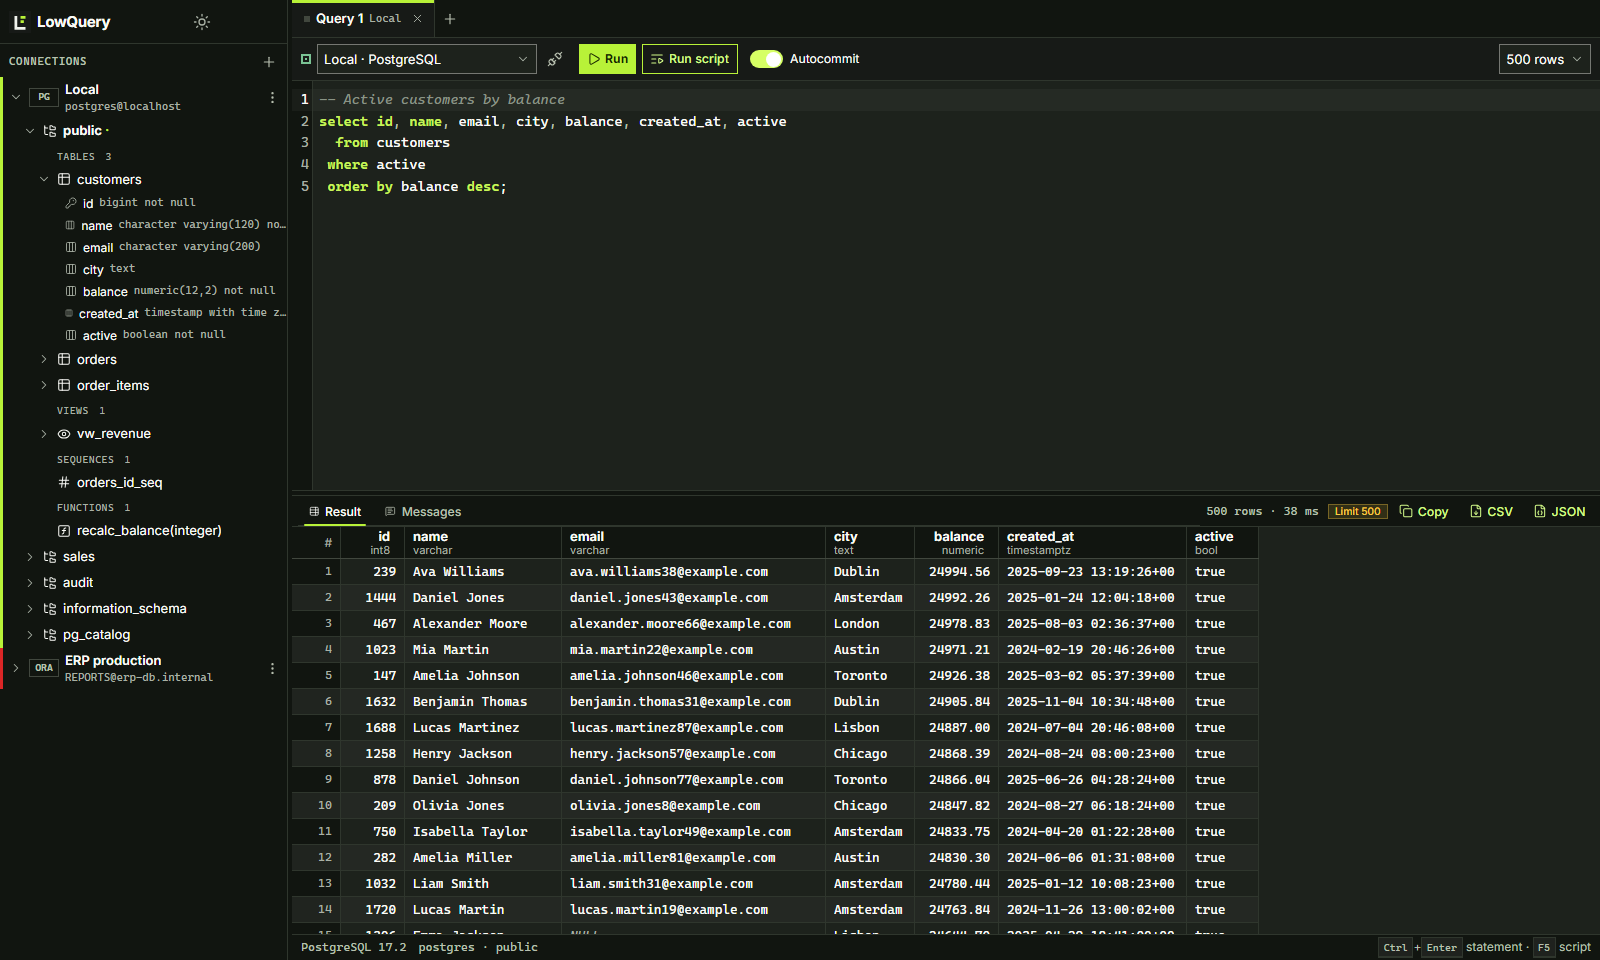
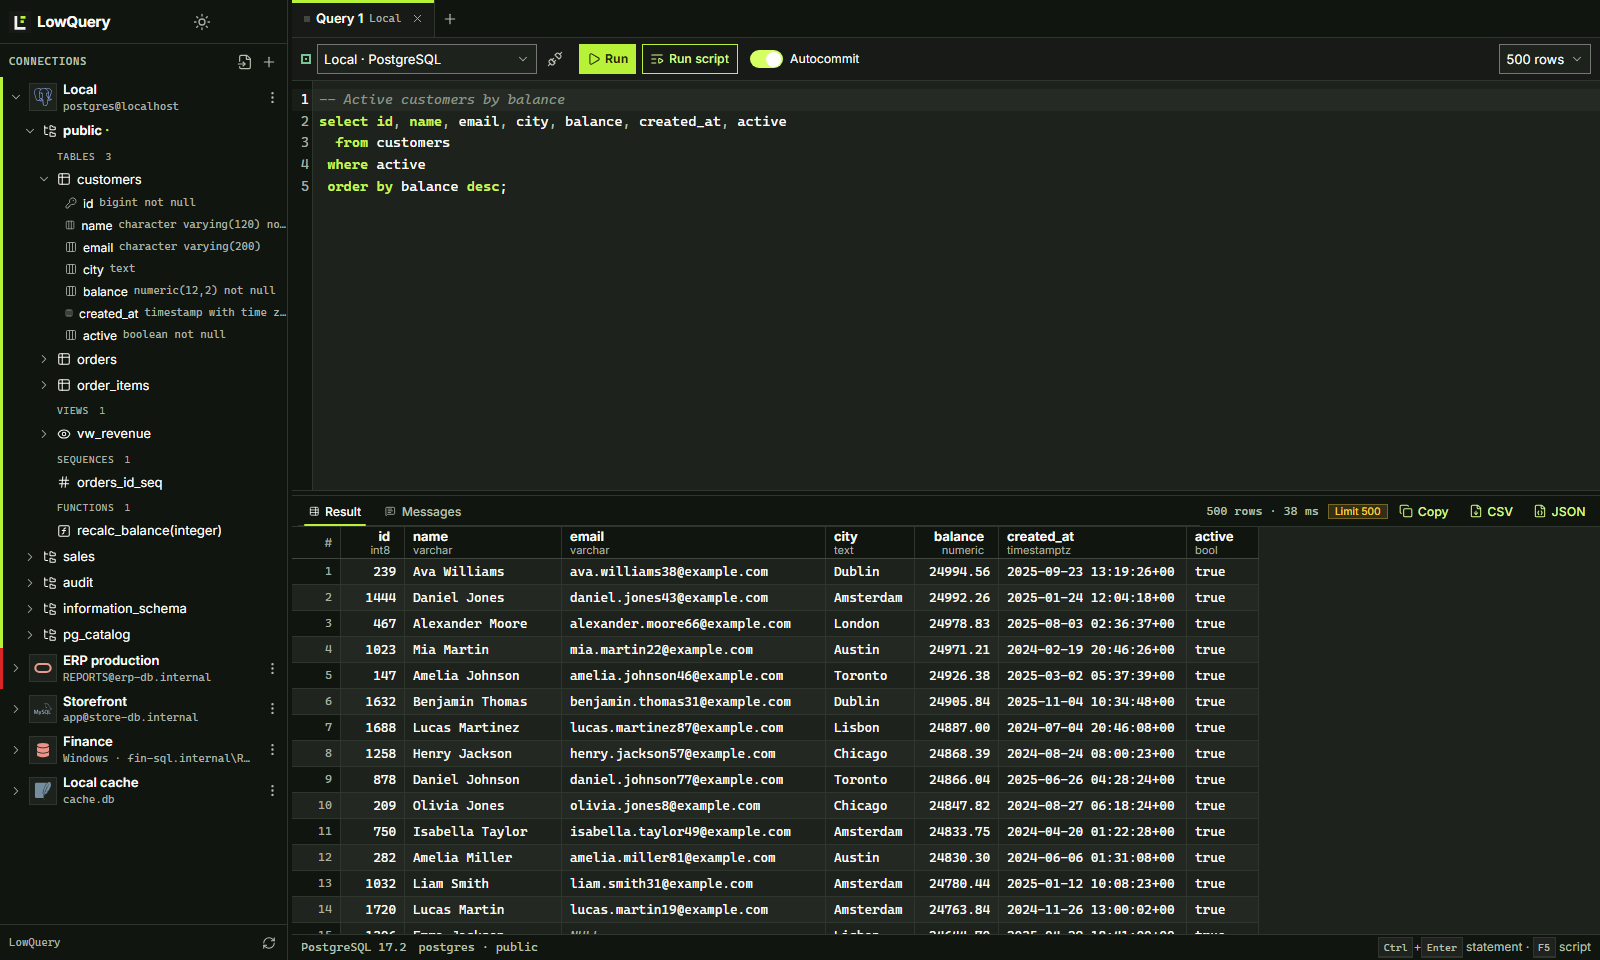
test(sqlserver): report why a cancelled session could not recover

Changed region(s): [[0.0, 0.6562, 0.1562, 0.8438], [0.0, 0.0625, 0.125, 0.125], [0.0, 0.9688, 0.0312, 1.0]]

diff --git a/src-tauri/src/drivers/sqlserver.rs b/src-tauri/src/drivers/sqlserver.rs
@@ -251,21 +251,24 @@ impl MsSession {
             None => {
                 // The batch future was dropped; the attention tells the server
                 // to stop and drains the rest of the response.
-                let acked = matches!(
-                    tokio::time::timeout(CANCEL_TIMEOUT, client.cancel_query()).await,
-                    Ok(Ok(()))
-                );
-                if acked {
-                    Err(AppError::new(
+                let acked = tokio::time::timeout(CANCEL_TIMEOUT, client.cancel_query()).await;
+                match acked {
+                    Ok(Ok(())) => Err(AppError::new(
                         ErrorKind::Cancelled,
                         "The statement was cancelled.",
-                    ))
-                } else {
-                    self.broken.store(true, Ordering::SeqCst);
-                    Err(AppError::new(
-                        ErrorKind::Cancelled,
-                        "The statement was cancelled, but the connection could not be recovered. Reconnect to continue.",
-                    ))
+                    )),
+                    other => {
+                        self.broken.store(true, Ordering::SeqCst);
+                        let mut err = AppError::new(
+                            ErrorKind::Cancelled,
+                            "The statement was cancelled, but the connection could not be recovered. Reconnect to continue.",
+                        );
+                        err.detail = Some(match other {
+                            Ok(Err(e)) => e.to_string(),
+                            _ => "The server did not acknowledge the cancel in time.".into(),
+                        });
+                        Err(err)
+                    }
                 }
             }
         };
@@ -284,6 +287,15 @@ impl MsSession {
                     let err = self.fail(e, None);
                     if outcome.is_ok() {
                         return Err(err);
+                    }
+                    // Keep the original error, but say why the session broke.
+                    if let Err(original) = &outcome {
+                        if self.broken.load(Ordering::SeqCst) && original.detail.is_none() {
+                            return Err(AppError {
+                                detail: Some(err.message),
+                                ..original.clone()
+                            });
+                        }
                     }
                     None
                 }
@@ -1480,6 +1492,7 @@ mod tests {
         tokio::time::sleep(Duration::from_secs(1)).await;
         s.cancel().await.unwrap();
         let err = running.await.unwrap().unwrap_err();
+        eprintln!("cancel result: {err:?}");
         assert_eq!(err.kind, ErrorKind::Cancelled);
         let r = run(&s, "SELECT 2", 0).await.unwrap();
         assert_eq!(r.rows[0][0].as_deref(), Some("2"));

diff --git a/README.md b/README.md
@@ -98,16 +98,15 @@ gh attestation verify LowQuery-<version>-linux-x64.AppImage --repo LowBloat/LowQ
 
 ## How it works
 
-| Topic | PostgreSQL | Oracle |
-| --- | --- | --- |
-| Driver | [`tokio-postgres`](https://crates.io/crates/tokio-postgres), extended protocol | [`oracledb`](https://github.com/oracle/rust-oracledb), Oracle's thin driver in pure Rust |
-| Row limit | Portal executed with `max_rows` | `prefetch_rows` and fetch size sized from the limit |
-| Values | Binary format decoded per type into server-style text | Per-type formatting for NUMBER, DATE, TIMESTAMP (with time zone), RAW/BLOB, CLOB, JSON, VECTOR and intervals |
-| Server messages | `NOTICE`/`WARNING` | `DBMS_OUTPUT` |
-| Cancel | Server cancel protocol | Not available in the driver yet; scripts stop before the next statement |
-| Network configuration | Host, port and database in the profile | `tnsnames.ora` found through `TNS_ADMIN`, `ORACLE_HOME`, registered Oracle homes or Instant Client on `PATH`, or a folder you pick; `IFILE`, `NAMES.DEFAULT_DOMAIN` and Latin-1 files are supported |
-| Encryption | `disable`, `prefer`, `require`, `verify-full` | TLS (TCPS) through a descriptor or Easy Connect string |
-| Scripts | `;`, `$$` and `$tag$` bodies, nested comments, `E''` strings | `;` for SQL, `/` for PL/SQL, `q'[...]'` strings |
+| Database | Row limit | Values | Server messages | Cancel | Scripts |
+| --- | --- | --- | --- | --- | --- |
+| PostgreSQL | Portal executed with `max_rows` | Binary format decoded per type into server-style text: exact NUMERIC, infinite dates, intervals, arrays, ranges | `NOTICE`, `WARNING` | Server cancel protocol | `;`, `$$` bodies, nested comments, `E''` strings |
+| Oracle | `prefetch_rows` and fetch size sized from the limit | NUMBER, DATE, TIMESTAMP with time zone, RAW/BLOB, CLOB, JSON, VECTOR, intervals | `DBMS_OUTPUT` | Not in the driver yet; scripts stop before the next statement | `;` for SQL, `/` for PL/SQL, `q'[...]'` strings |
+| MySQL, MariaDB | `sql_select_limit` on the server | Text protocol: exact DECIMAL, unsigned BIGINT, zero dates, binary as hex | `SHOW WARNINGS` | `KILL QUERY` from a second connection | `DELIMITER`, `#` comments, backticks, backslash escapes |
+| SQL Server, Azure SQL | `SET ROWCOUNT` for plain SELECT batches | Exact decimal, datetime2 and datetimeoffset precision, uniqueidentifier, binary as hex | Not exposed by the driver yet | TDS attention | `GO` batches, `BEGIN...END` blocks, `[brackets]` |
+| SQLite | Stops stepping at the limit | Storage class and declared type; blobs as hex | — | `sqlite3_interrupt` | Trigger bodies, `[brackets]`, backticks |
+
+**Network configuration.** PostgreSQL, MySQL, MariaDB and SQL Server use host, port and database, with `disable`, `prefer`, `require` or `verify-full` TLS. SQL Server also takes a named instance (found through SQL Server Browser) and can sign in with the Windows account running LowQuery. Oracle reads the `tnsnames.ora` found through `TNS_ADMIN`, `ORACLE_HOME`, registered Oracle homes or an Instant Client on `PATH`, or a folder you pick (`IFILE`, `NAMES.DEFAULT_DOMAIN` and Latin-1 files are supported), and accepts TCPS descriptors. SQLite opens or creates a local file.
 
 Connection profiles are stored in `connections.json` in the user configuration folder (`%APPDATA%\LowBloat\LowQuery\config` on Windows, `~/Library/Application Support/dev.LowBloat.LowQuery` on macOS, `~/.config/lowquery` on Linux). Open query tabs and their SQL are restored on the next start.
 

diff --git a/docs/ARCHITECTURE.md b/docs/ARCHITECTURE.md
@@ -32,6 +32,9 @@ LowQuery is a Tauri 2 desktop app. The interface is Svelte 5 with the [CodeAtlas
 | `drivers/postgres.rs` | PostgreSQL session on `tokio-postgres` |
 | `drivers/pg_value.rs` | Binary decoding of PostgreSQL types into server-style text |
 | `drivers/oracle.rs` | Oracle session on the official `oracledb` thin driver |
+| `drivers/mysql.rs` | MySQL and MariaDB session on `mysql_async` |
+| `drivers/sqlserver.rs` | SQL Server and Azure SQL session on `tiberius` (TDS) |
+| `drivers/sqlite.rs` | SQLite session on `rusqlite` (bundled engine) |
 | `drivers/tns.rs` | Finds and parses `tnsnames.ora` (TNS_ADMIN, ORACLE_HOME, Windows registry, clients on PATH) |
 | `drivers/integration_tests.rs` | Tests against real servers (`#[ignore]`, see CONTRIBUTING) |
 
@@ -52,10 +55,30 @@ LowQuery is a Tauri 2 desktop app. The interface is Svelte 5 with the [CodeAtlas
 - The driver cannot interrupt a running call yet; a script stops before the next statement instead.
 - TNS aliases are resolved by `tns.rs`, not by the driver: it searches the same places an Oracle client does plus clients on `PATH` and the Windows registry, reads Latin-1 files, follows `IFILE` and applies `NAMES.DEFAULT_DOMAIN`. The driver receives the full descriptor and the folder, which it still uses for `sqlnet.ora`.
 
+### MySQL and MariaDB
+
+- Statements use the text protocol, so the server formats every value; binary-charset columns are shown as hex.
+- Row-returning statements run with `sql_select_limit` set to the limit and restored afterwards.
+- Transaction state comes from the server status flags of the last OK packet.
+- Warnings are read with `SHOW WARNINGS`; cancel sends `KILL QUERY` from a short-lived second connection.
+
+### SQL Server
+
+- Each call is one batch (`GO` splits them in the interface), so `#temp` tables, `USE` and `SET` persist.
+- Plain `SELECT`/`WITH` batches run with `SET ROWCOUNT`; others stop reading at the limit.
+- Manual commit mode uses `SET IMPLICIT_TRANSACTIONS ON`, and `@@TRANCOUNT`/`XACT_STATE()` after each call drive the transaction indicator.
+- Cancel sends a TDS attention. The driver does not expose `PRINT` messages yet.
+
+### SQLite
+
+- The connection lives behind a mutex and every call runs in `spawn_blocking`; cancel uses `sqlite3_interrupt`.
+- Manual commit mode opens `BEGIN` before the first statement; the indicator follows `sqlite3_get_autocommit`.
+
 ## Interface side (`src`)
 
 | Path | Responsibility |
 | --- | --- |
+| `lib/engines/` | Engine registry (name, logo, default port, dialect) used by the picker and the sidebar |
 | `theme.ts` | LowBloat theme for CodeAtlas: palette, zero radius, no shadows |
 | `lib/api.ts` | Types and `invoke` wrappers for every command |
 | `lib/sql/split.ts` | Script splitting per dialect: strings, quoted identifiers, nested comments, dollar quotes, `q'[...]'`, PL/SQL blocks |

diff --git a/CHANGELOG.md b/CHANGELOG.md
@@ -4,6 +4,15 @@ All notable changes to LowQuery are documented here. The format follows [Keep a 
 
 ## [Unreleased]
 
+## [0.2.0] - 2026-10-19
+
+### Added
+- MySQL and MariaDB through `mysql_async`: server-side row limit with `sql_select_limit`, exact DECIMAL and unsigned values, warnings in the Messages tab, `KILL QUERY` cancel, TLS modes, and `DELIMITER` in scripts.
+- SQL Server and Azure SQL through `tiberius` (TDS): SQL logins or the Windows account, named instances through SQL Server Browser, encryption modes, `GO` batches, `SET ROWCOUNT` limit for plain SELECT batches, attention cancel and implicit transactions for manual commit.
+- SQLite through the bundled engine: open or create a database file, interrupt, extended error codes with positions and trigger bodies in scripts.
+- The new connection dialog starts with a database picker showing each engine's logo, name and driver; connections in the sidebar show the engine logo.
+- Per-engine identifier quoting and preview queries (`LIMIT`, `FETCH FIRST`, `TOP`), and editor dialects for every engine.
+
 ## [0.1.2] - 2026-10-19
 
 ### Added
@@ -42,7 +51,8 @@ First public release, with PostgreSQL and Oracle.
 - Schema browser for tables, views, sequences, routines, packages and columns.
 - Drafts restored on restart, light and dark themes, and a layout for narrow windows.
 
-[Unreleased]: https://github.com/LowBloat/LowQuery/compare/v0.1.2...HEAD
+[Unreleased]: https://github.com/LowBloat/LowQuery/compare/v0.2.0...HEAD
+[0.2.0]: https://github.com/LowBloat/LowQuery/compare/v0.1.2...v0.2.0
 [0.1.2]: https://github.com/LowBloat/LowQuery/compare/v0.1.1...v0.1.2
 [0.1.1]: https://github.com/LowBloat/LowQuery/compare/v0.1.0...v0.1.1
 [0.1.0]: https://github.com/LowBloat/LowQuery/releases/tag/v0.1.0

diff --git a/CONTRIBUTING.md b/CONTRIBUTING.md
@@ -54,7 +54,7 @@ set -a; source ../.env.test; set +a
 cargo test --lib -- --ignored --test-threads=1
 ```
 
-CI runs the same tests against PostgreSQL 13 and 17 and Oracle Database Free in containers, so a pull request shows whether a change works on both engines. For a bug fix, add a regression test that fails without the fix.
+SQLite tests need no server and always run. CI runs the server tests against PostgreSQL 13 and 17, Oracle Database Free, MySQL 8.4, MariaDB 11.4 and SQL Server 2022 in containers, so a pull request shows whether a change works on every engine. For a bug fix, add a regression test that fails without the fix.
 
 ## Open a pull request
 
